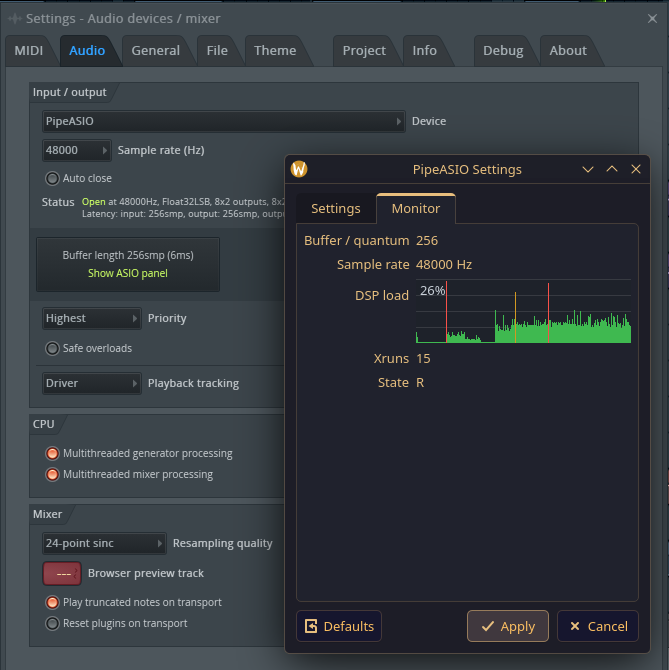
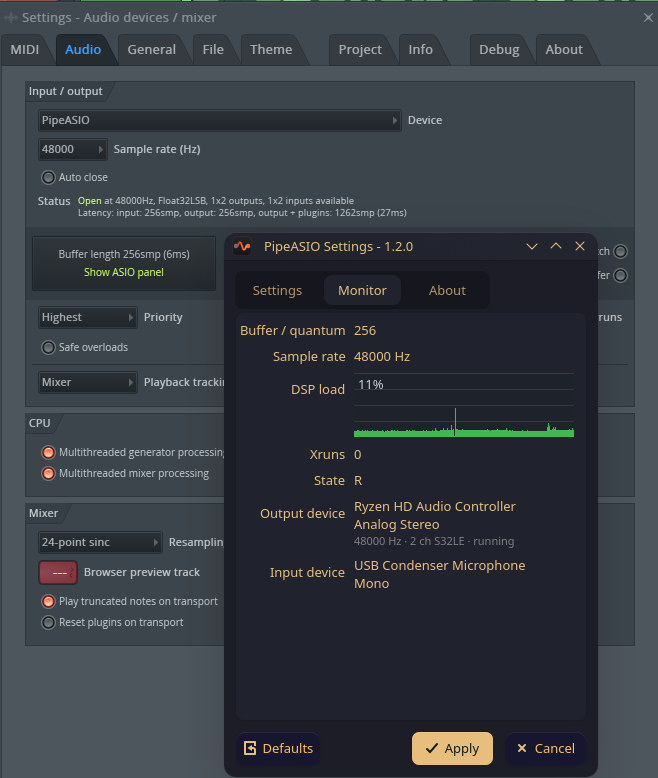
docs(site): refresh panel screenshots to 1.2.0 + add About tab
Replace the stale panel-settings/panel-monitor shots (pre-1.2.0 panel, old
Monitor without device rows) with current captures over FL Studio, and add
panel-about.png for the new About tab. The Monitor shot now shows the live
connected Output/Input devices; caption updated to match. Source: user
captures verified at 1.2.0 (title 'PipeASIO Settings - 1.2.0').

Changed region(s): [[0.0, 0.0, 1.0, 1.0], [0.4559, 0.5672, 0.5471, 0.6269], [0.9422, 0.0, 1.0, 0.0299]]

diff --git a/docs/index.html b/docs/index.html
@@ -375,7 +375,11 @@
         </figure>
         <figure>
           <div class="shot"><img src="panel-monitor.png" alt="PipeASIO Monitor tab over FL Studio" loading="lazy"></div>
-          <figcaption>Monitor: live quantum, rate, DSP-load graph, xruns.</figcaption>
+          <figcaption>Monitor: live quantum, rate, DSP-load graph, xruns, and the connected devices.</figcaption>
+        </figure>
+        <figure>
+          <div class="shot"><img src="panel-about.png" alt="PipeASIO About tab over FL Studio" loading="lazy"></div>
+          <figcaption>About: version, project links, and Ko-fi support.</figcaption>
         </figure>
       </div>
     </div>